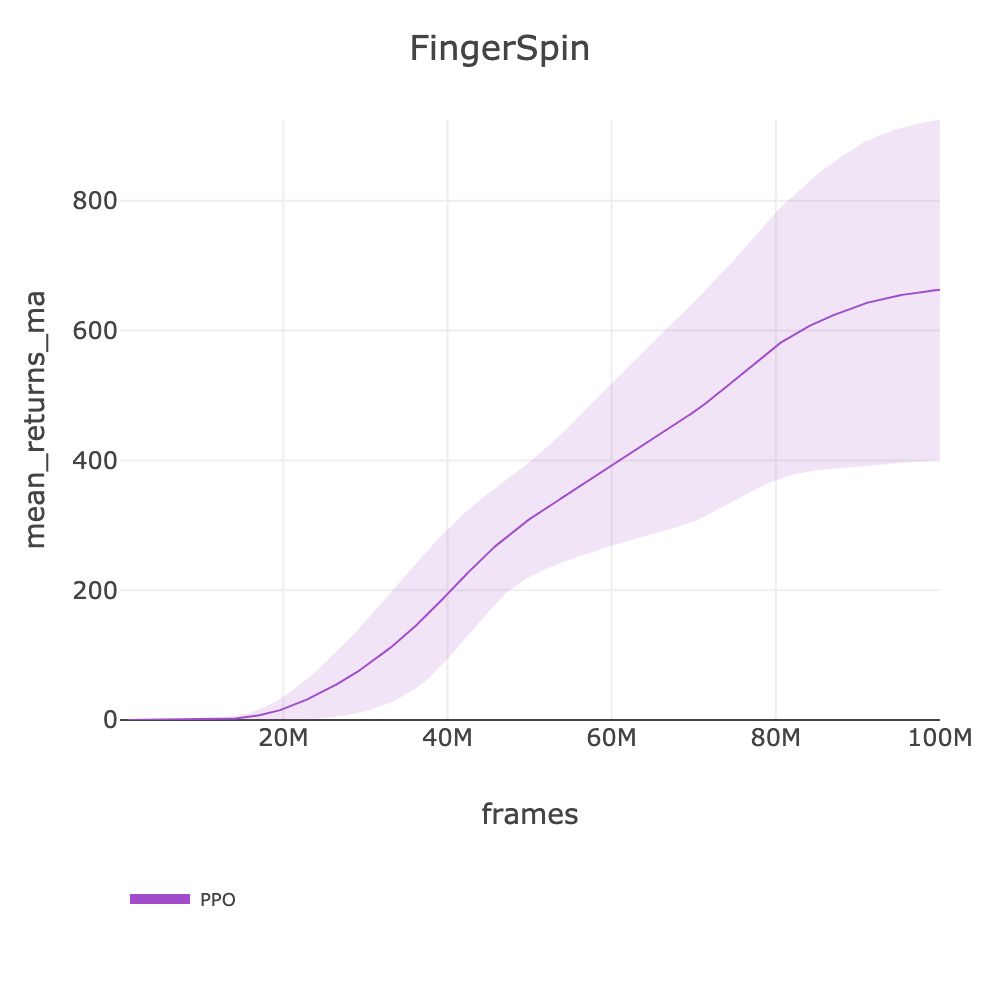
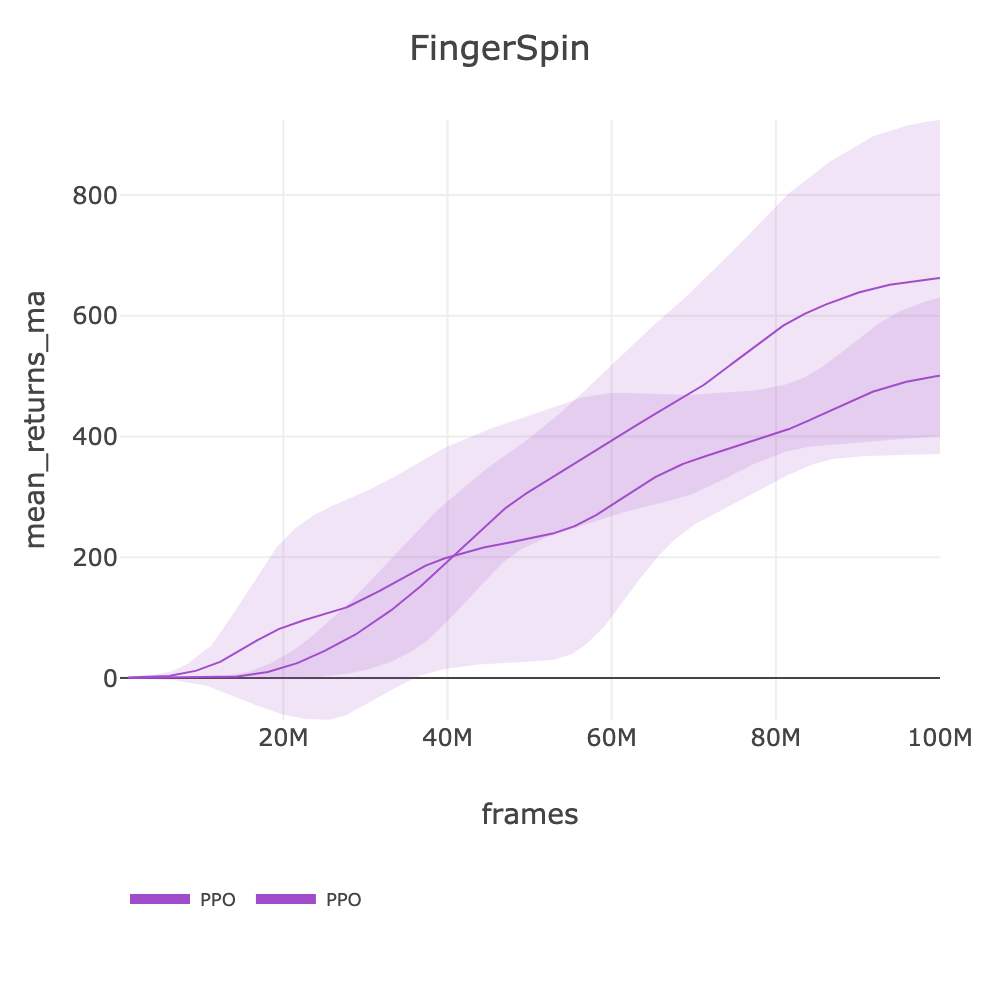
feat: intake PPO v2 FingerTurnHard (455, ❌) + FingerSpin (501, ⚠)

diff --git a/docs/BENCHMARKS.md b/docs/BENCHMARKS.md
@@ -915,13 +915,13 @@ source .env && uv run slm-lab run-remote --gpu \
 | playground/CheetahRun | PPO | ❌ | 511.27 | ppo_playground | [ppo_playground_cheetahrun_2026_03_11_095607](https://huggingface.co/datasets/SLM-Lab/benchmark-dev/tree/main/data/ppo_playground_cheetahrun_2026_03_11_095607) | 850 | 12170 | 100M | 2h 17m |
 | | CrossQ | 🔄 | - | crossq_playground | - | | - | - | - |
 | | SAC | 🔄 | - | sac_playground | - | | - | - | - |
-| playground/FingerSpin | PPO | ✅ | 662.74 | ppo_playground | [ppo_playground_fingerspin_2026_03_11_100649](https://huggingface.co/datasets/SLM-Lab/benchmark-dev/tree/main/data/ppo_playground_fingerspin_2026_03_11_100649) | 600 | 13890 | 100M | 1h 59m |
+| playground/FingerSpin | PPO | ⚠ | 500.95 | ppo_playground_v2 | [ppo_playground_v2_fingerspin_2026_03_11_182614](https://huggingface.co/datasets/SLM-Lab/benchmark-dev/tree/main/data/ppo_playground_v2_fingerspin_2026_03_11_182614) | 600 | 15920 | 100M | 1h 45m |
 | | CrossQ | 🔄 | - | crossq_playground | - | | - | - | - |
 | | SAC | 🔄 | - | sac_playground | - | | - | - | - |
 | playground/FingerTurnEasy | PPO | ❌ | 528.73 | ppo_playground | [ppo_playground_fingerturneasy_2026_03_11_123957](https://huggingface.co/datasets/SLM-Lab/benchmark-dev/tree/main/data/ppo_playground_fingerturneasy_2026_03_11_123957) | 950 | 10590 | 100M | 2h 37m |
 | | CrossQ | 🔄 | - | crossq_playground | - | | - | - | - |
 | | SAC | 🔄 | - | sac_playground | - | | - | - | - |
-| playground/FingerTurnHard | PPO | ❌ | 415.89 | ppo_playground | [ppo_playground_fingerturnhard_2026_03_11_124037](https://huggingface.co/datasets/SLM-Lab/benchmark-dev/tree/main/data/ppo_playground_fingerturnhard_2026_03_11_124037) | 950 | 12400 | 100M | 2h 15m |
+| playground/FingerTurnHard | PPO | ❌ | 455.30 | ppo_playground_v2 | [ppo_playground_v2_fingerturnhard_2026_03_11_182615](https://huggingface.co/datasets/SLM-Lab/benchmark-dev/tree/main/data/ppo_playground_v2_fingerturnhard_2026_03_11_182615) | 950 | 16010 | 100M | 1h 44m |
 | | CrossQ | 🔄 | - | crossq_playground | - | | - | - | - |
 | | SAC | 🔄 | - | sac_playground | - | | - | - | - |
 | playground/FishSwim | PPO | ❌ | 104.20 | ppo_playground | [ppo_playground_fishswim_2026_03_11_142859](https://huggingface.co/datasets/SLM-Lab/benchmark-dev/tree/main/data/ppo_playground_fishswim_2026_03_11_142859) | 650 | 10010 | 50M | 1h 23m |
